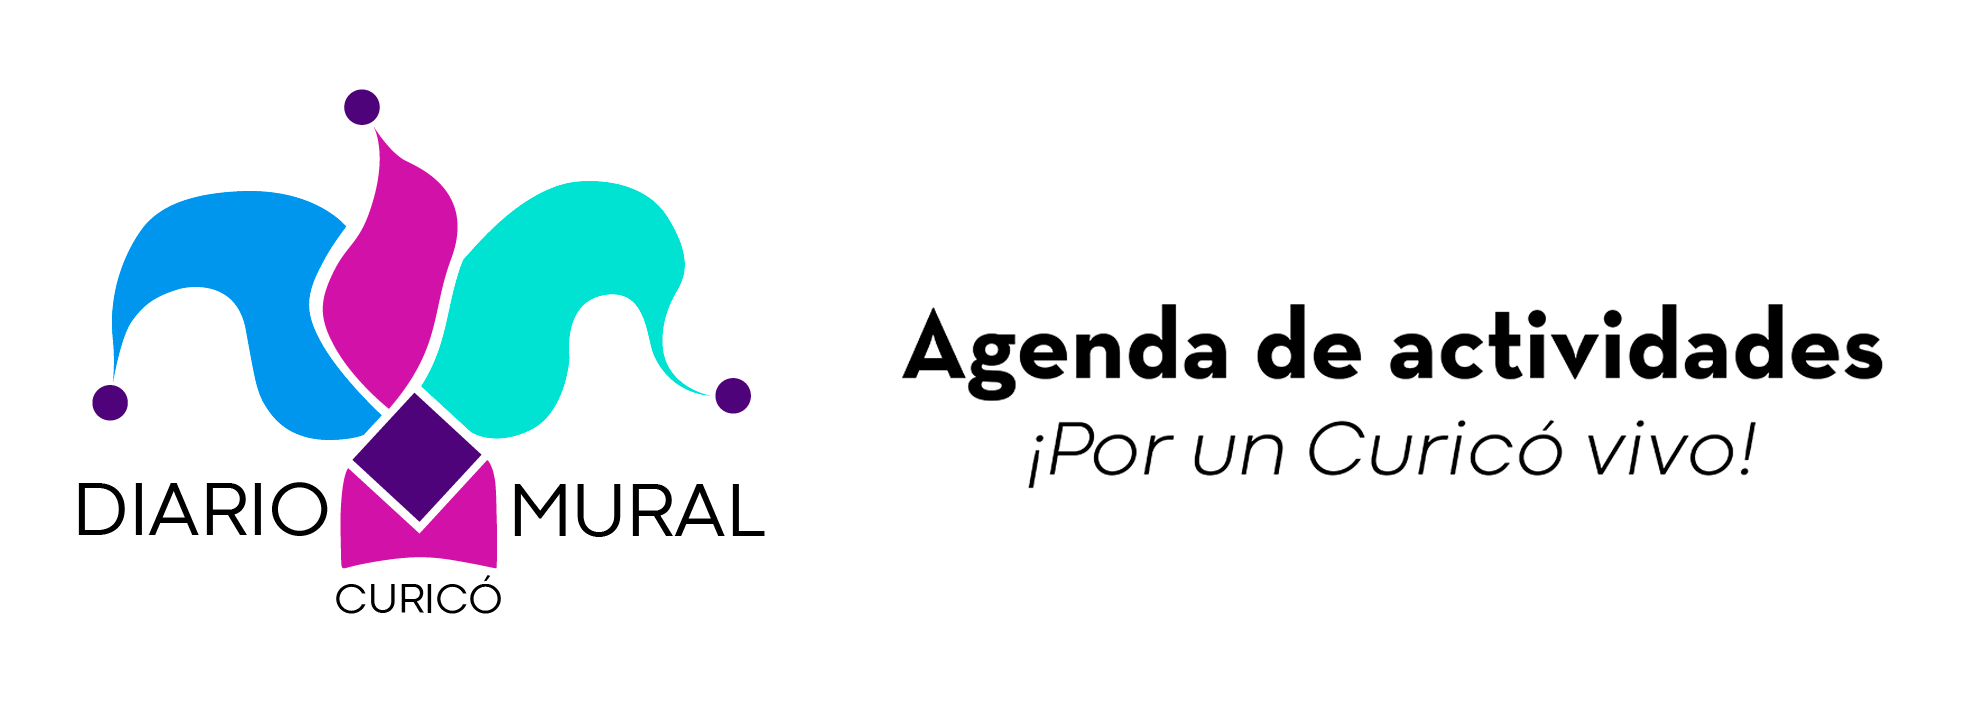
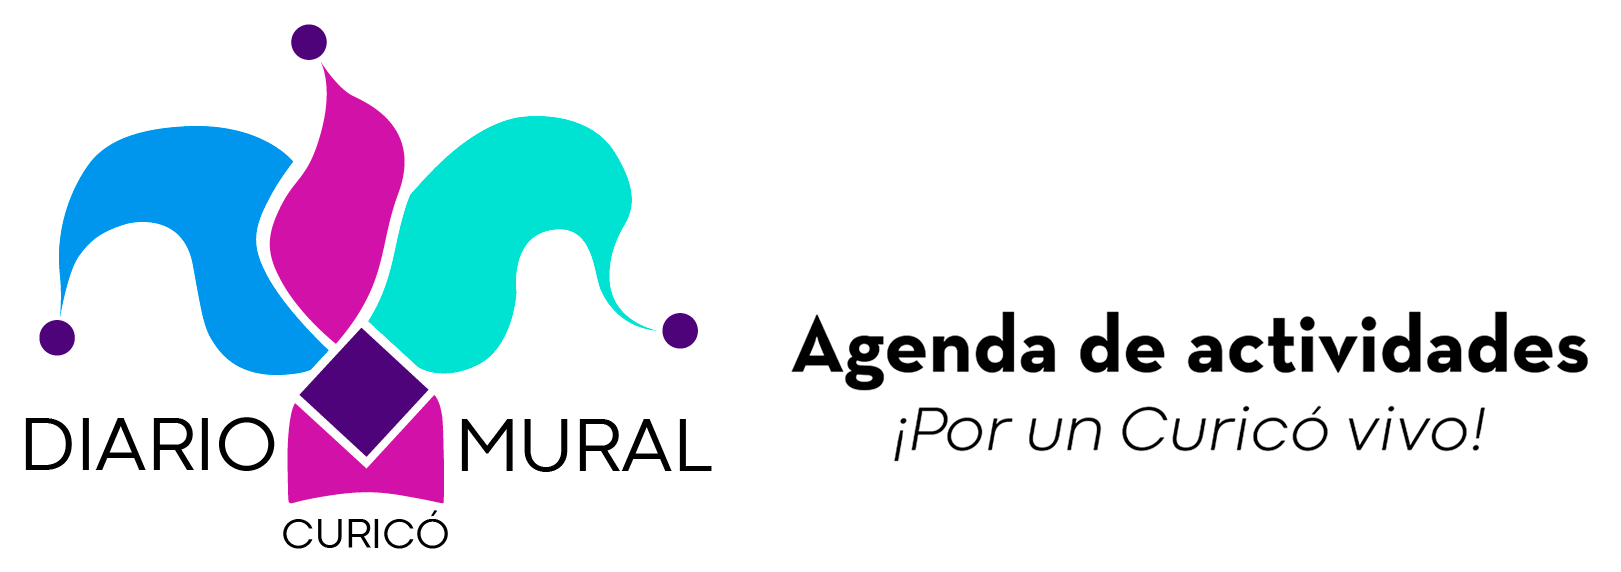
Cambios esteticos en navbar

Changed region(s): [[0.0, 0.0297, 0.4318, 0.9808], [0.4318, 0.4161, 0.987, 0.6836], [0.5552, 0.7133, 0.9254, 0.8024]]

diff --git a/src/routes/Navigation/Navigation.jsx b/src/routes/Navigation/Navigation.jsx
@@ -19,7 +19,7 @@ import "./Navigation.css";
                 <img
                   alt="Logo Diario Mural Curicó"
                   src={logodmcfull}
-                  className="logoMuralNav p-2 ml-1"
+                  className="logoMuralNav mx-auto p-3 "
                 />
               </a>
             </div>
@@ -27,19 +27,19 @@ import "./Navigation.css";
             <Container fluid className="d-flex justify-content-center justify-content-md-end">
               <div className="d-flex align-items-center">
                 <Col xs="auto">
-                  <Navbar expand="sm" className="w-100">
+                  <Navbar expand="lg" className="w-100">
                     <Container fluid>
                       {/* Botones visibles en móvil, ahora debajo del logo */}
-                      <div className="d-flex btncontainer flex-grow-1 pe-3">
+                      <div className="d-flex btncontainer flex-grow-1 pe-2">
                         <Nav.Link
                           href="/programacion"
-                          className="btnLink rounded fw-bold fs-5 m-1 p-2"
+                          className="btnLink rounded fw-bold fs-6 m-1 p-2"
                         >
                           Agenda
                         </Nav.Link>
                         <Nav.Link
                           href="/publicar"
-                          className="btnLink rounded fw-bold fs-5 m-1 p-2"
+                          className="btnLink rounded fw-bold fs-6 m-1 p-2"
                         >
                           Publicar
                         </Nav.Link>
@@ -66,12 +66,12 @@ import "./Navigation.css";
                           <Nav className="btncontainer flex-grow-1">
                             <Nav.Link
                               href="/"
-                              className="btnLink rounded fw-bold fs-5 m-1 p-2">
+                              className="btnLink rounded fw-bold fs-6 m-1 p-2">
                               Inicio
                             </Nav.Link>
                             <Nav.Link
                               href="/quienes-somos"
-                              className="btnLink rounded fw-bold fs-5 m-1 p-2">
+                              className="btnLink rounded fw-bold fs-6 m-1 p-2">
                               Nosotros
                             </Nav.Link>
                           </Nav>

diff --git a/src/components/Tarjeta/Tarjeta/Tarjeta.jsx b/src/components/Tarjeta/Tarjeta/Tarjeta.jsx
@@ -12,6 +12,7 @@ import dayjs from "dayjs";
 import "dayjs/locale/es";
 import "./Tarjeta.css";
 import { BarLoader } from "react-spinners";
+import CardHeader from "react-bootstrap/esm/CardHeader";
 
 const Tarjeta = ({ menu }) => {
   const [categoriaSeleccionada, setCategoriaSeleccionada] = useState("");
@@ -144,7 +145,18 @@ const Tarjeta = ({ menu }) => {
                         className="d-flex justify-content-center"
                         key={plato.id}>
                         <Card className="text-center fixed-card shadow-sm ">
-                          <div style={{ marginBottom: "10px" }}></div>
+                                                <CardHeader>
+                                                  <Card.Subtitle>
+                                                    {dayjs(plato.fechaHoraActividad.toDate())
+                                                      .locale("es")
+                                                      .format("dddd D MMM YYYY")
+                                                      .toUpperCase()}{" "}
+                                                    /{" "}
+                                                    {dayjs(plato.fechaHoraActividad.toDate()).format(
+                                                      "H:mm A"
+                                                    )}
+                                                  </Card.Subtitle>
+                                                </CardHeader>
                           <Card.Img
                             loading="lazy"
                             className=" imgCard mb-none "
@@ -156,7 +168,7 @@ const Tarjeta = ({ menu }) => {
                               {plato.nombre.toUpperCase()}
                             </Card.Title>
                             <p>
-                              <strong>Organizador:</strong> {plato.organiza}
+                              <strong>Ubicación:</strong> {plato.direccion}
                             </p>
                             <Button
                               className="btnFilter fw-bold fs-5 mt-2"

diff --git a/src/pages/Menu/EliminarCarta/EliminarCarta.jsx b/src/pages/Menu/EliminarCarta/EliminarCarta.jsx
@@ -3,12 +3,8 @@ import { useState, useEffect } from "react";
 import { collection, getDocs } from "firebase/firestore";
 import { db } from "../../../config/Firebase";
 
-import Modal from "react-bootstrap/Modal";
-
 import { es } from "date-fns/locale";
 import { format } from "date-fns";
-import logodmcfull2 from "../../../images/lgdmcfull2.png";
-import { Col, Container } from "react-bootstrap";
 
 import "./EliminarCarta.css";
 import EliminarCard from "../../../components/Tarjeta/Eliminar/EliminarCard";

diff --git a/src/routes/Navigation/Navigation.css b/src/routes/Navigation/Navigation.css
@@ -11,8 +11,8 @@
 }
 
   .logoMuralNav{
-    height:  180px !important;
-    width: auto !important; 
+    height:  100% !important;
+    width: 500px !important; 
   }
 
   .logoMuralBlack{
